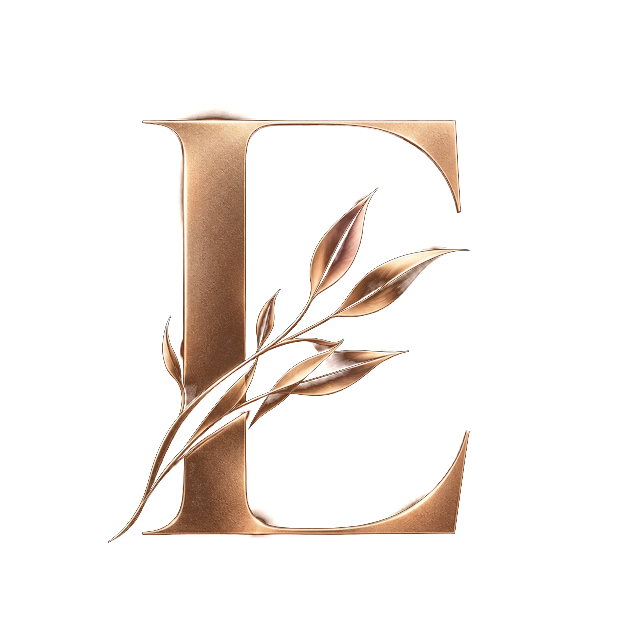
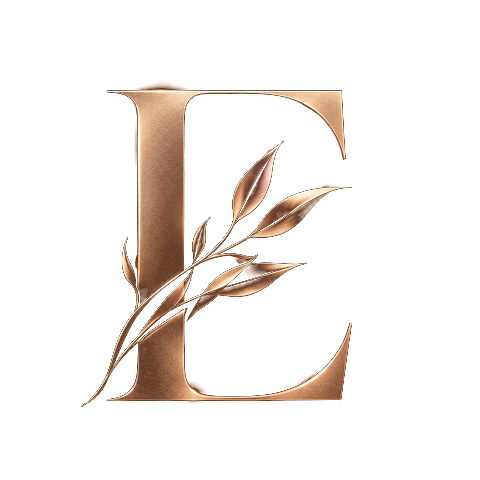
Ajusta contraste por seção, comprime monograma e pré-carrega poster

diff --git a/components/home/Hero.tsx b/components/home/Hero.tsx
@@ -1,31 +1,38 @@
+import { preload } from "react-dom";
 import { Button } from "@/components/ui/Button";
 import { Eyebrow } from "@/components/ui/Eyebrow";
 import { Monograma } from "@/components/ui/Monograma";
 import { marca, pilares } from "@/content/marca";
 
-export const Hero = () => (
-  <section className="relative flex min-h-svh items-center justify-center overflow-hidden bg-ink text-center">
-    <video
-      className="absolute inset-0 h-full w-full object-cover opacity-40"
-      autoPlay
-      muted
-      loop
-      playsInline
-      poster="/img/hero/poster.webp"
-    >
-      <source src="/video/hero.mp4" type="video/mp4" />
-    </video>
-    <div className="absolute inset-0 bg-linear-to-b from-ink/40 via-ink/60 to-ink" />
-    <div className="relative animate-fade-up px-6 pt-20">
-      <Monograma size={160} priority className="mx-auto" />
-      <h1 className="mt-8 font-serif text-4xl uppercase tracking-[0.35em] text-cream sm:text-5xl md:text-7xl">
-        {marca.nome}
-      </h1>
-      <p className="mt-4 font-serif text-xl italic text-gold md:text-2xl">{marca.assinatura}</p>
-      <Eyebrow className="mt-10">{pilares.map((p) => p.titulo).join(" • ")}</Eyebrow>
-      <Button href="/evento#interesse" className="mt-12">
-        Garantir vaga
-      </Button>
-    </div>
-  </section>
-);
+const POSTER = "/img/hero/poster.webp";
+
+export const Hero = () => {
+  preload(POSTER, { as: "image" });
+
+  return (
+    <section className="relative flex min-h-svh items-center justify-center overflow-hidden bg-ink text-center">
+      <video
+        className="absolute inset-0 h-full w-full object-cover opacity-40"
+        autoPlay
+        muted
+        loop
+        playsInline
+        poster={POSTER}
+      >
+        <source src="/video/hero.mp4" type="video/mp4" />
+      </video>
+      <div className="absolute inset-0 bg-linear-to-b from-ink/40 via-ink/60 to-ink" />
+      <div className="relative animate-fade-up px-6 pt-20">
+        <Monograma size={160} priority className="mx-auto" />
+        <h1 className="mt-8 font-serif text-4xl uppercase tracking-[0.35em] text-cream sm:text-5xl md:text-7xl">
+          {marca.nome}
+        </h1>
+        <p className="mt-4 font-serif text-xl italic text-gold md:text-2xl">{marca.assinatura}</p>
+        <Eyebrow className="mt-10">{pilares.map((p) => p.titulo).join(" • ")}</Eyebrow>
+        <Button href="/evento#interesse" className="mt-12">
+          Garantir vaga
+        </Button>
+      </div>
+    </section>
+  );
+};

diff --git a/tests/ui.test.tsx b/tests/ui.test.tsx
@@ -16,15 +16,22 @@ describe("Section", () => {
     }
   });
 
+  it("define acento wine em fundo cream e gold nos escuros", () => {
+    expect(renderToStaticMarkup(<Section bg="cream">x</Section>)).toContain("[--accent:var(--color-wine)]");
+    for (const bg of ["ink", "wine", "plum"] as const) {
+      expect(renderToStaticMarkup(<Section bg={bg}>x</Section>)).toContain("[--accent:var(--color-gold)]");
+    }
+  });
+
   it("propaga id pra âncora", () => {
     expect(renderToStaticMarkup(<Section bg="ink" id="interesse">x</Section>)).toContain('id="interesse"');
   });
 });
 
 describe("Eyebrow", () => {
-  it("usa tracking largo e gold", () => {
+  it("usa tracking largo e a cor de acento da seção", () => {
     const html = renderToStaticMarkup(<Eyebrow>Conexão</Eyebrow>);
     expect(html).toContain("tracking-[0.25em]");
-    expect(html).toContain("text-gold");
+    expect(html).toContain("text-(--accent)");
   });
 });

diff --git a/tests/content.test.ts b/tests/content.test.ts
@@ -1,4 +1,4 @@
-import { existsSync } from "node:fs";
+import { existsSync, statSync } from "node:fs";
 import sharp from "sharp";
 import { describe, expect, it } from "vitest";
 import { carol } from "@/content/carol";
@@ -26,6 +26,10 @@ describe("conteúdo", () => {
     expect(data[3]).toBe(0);
     const haste = (Math.round(info.height / 2) * info.width + Math.round(info.width * 0.32)) * 4 + 3;
     expect(data[haste]).toBeGreaterThan(200);
+  });
+
+  it("monograma pesa menos de 80KB", () => {
+    expect(statSync("public/img/brand/monograma.png").size).toBeLessThan(80 * 1024);
   });
 
   it("fotos referenciadas existem em public/", () => {

diff --git a/components/evento/Programacao.tsx b/components/evento/Programacao.tsx
@@ -10,7 +10,7 @@ export const Programacao = ({ blocos }: Props) => (
     <ol className="mt-12 divide-y divide-ink/10">
       {blocos.map((b) => (
         <li key={b.horario} className="grid gap-2 py-8 md:grid-cols-[8rem_1fr]">
-          <span className="font-serif text-2xl text-gold">{b.horario}</span>
+          <span className="font-serif text-2xl text-(--accent)">{b.horario}</span>
           <div>
             <h3 className="font-serif text-2xl">{b.titulo}</h3>
             <p className="mt-2 font-sans text-sm text-ink/70">{b.descricao}</p>

diff --git a/components/ui/Section.tsx b/components/ui/Section.tsx
@@ -1,10 +1,10 @@
 import type { ReactNode } from "react";
 
 const variants = {
-  ink: "bg-ink text-cream/90",
-  cream: "bg-cream text-ink",
-  wine: "bg-wine text-cream/90",
-  plum: "bg-plum text-cream/90",
+  ink: "bg-ink text-cream/90 [--accent:var(--color-gold)]",
+  cream: "bg-cream text-ink [--accent:var(--color-wine)]",
+  wine: "bg-wine text-cream/90 [--accent:var(--color-gold)]",
+  plum: "bg-plum text-cream/90 [--accent:var(--color-gold)]",
 } as const;
 
 export type SectionBg = keyof typeof variants;

diff --git a/components/ui/Eyebrow.tsx b/components/ui/Eyebrow.tsx
@@ -3,5 +3,5 @@ import type { ReactNode } from "react";
 type Props = { children: ReactNode; className?: string };
 
 export const Eyebrow = ({ children, className = "" }: Props) => (
-  <p className={`font-sans text-xs uppercase tracking-[0.25em] text-gold ${className}`}>{children}</p>
+  <p className={`font-sans text-xs uppercase tracking-[0.25em] text-(--accent) ${className}`}>{children}</p>
 );

diff --git a/app/globals.css b/app/globals.css
@@ -32,6 +32,7 @@ html {
 }
 
 body {
+  --accent: var(--color-gold);
   background-color: var(--color-ink);
   color: var(--color-cream);
   font-family: var(--font-sans);
